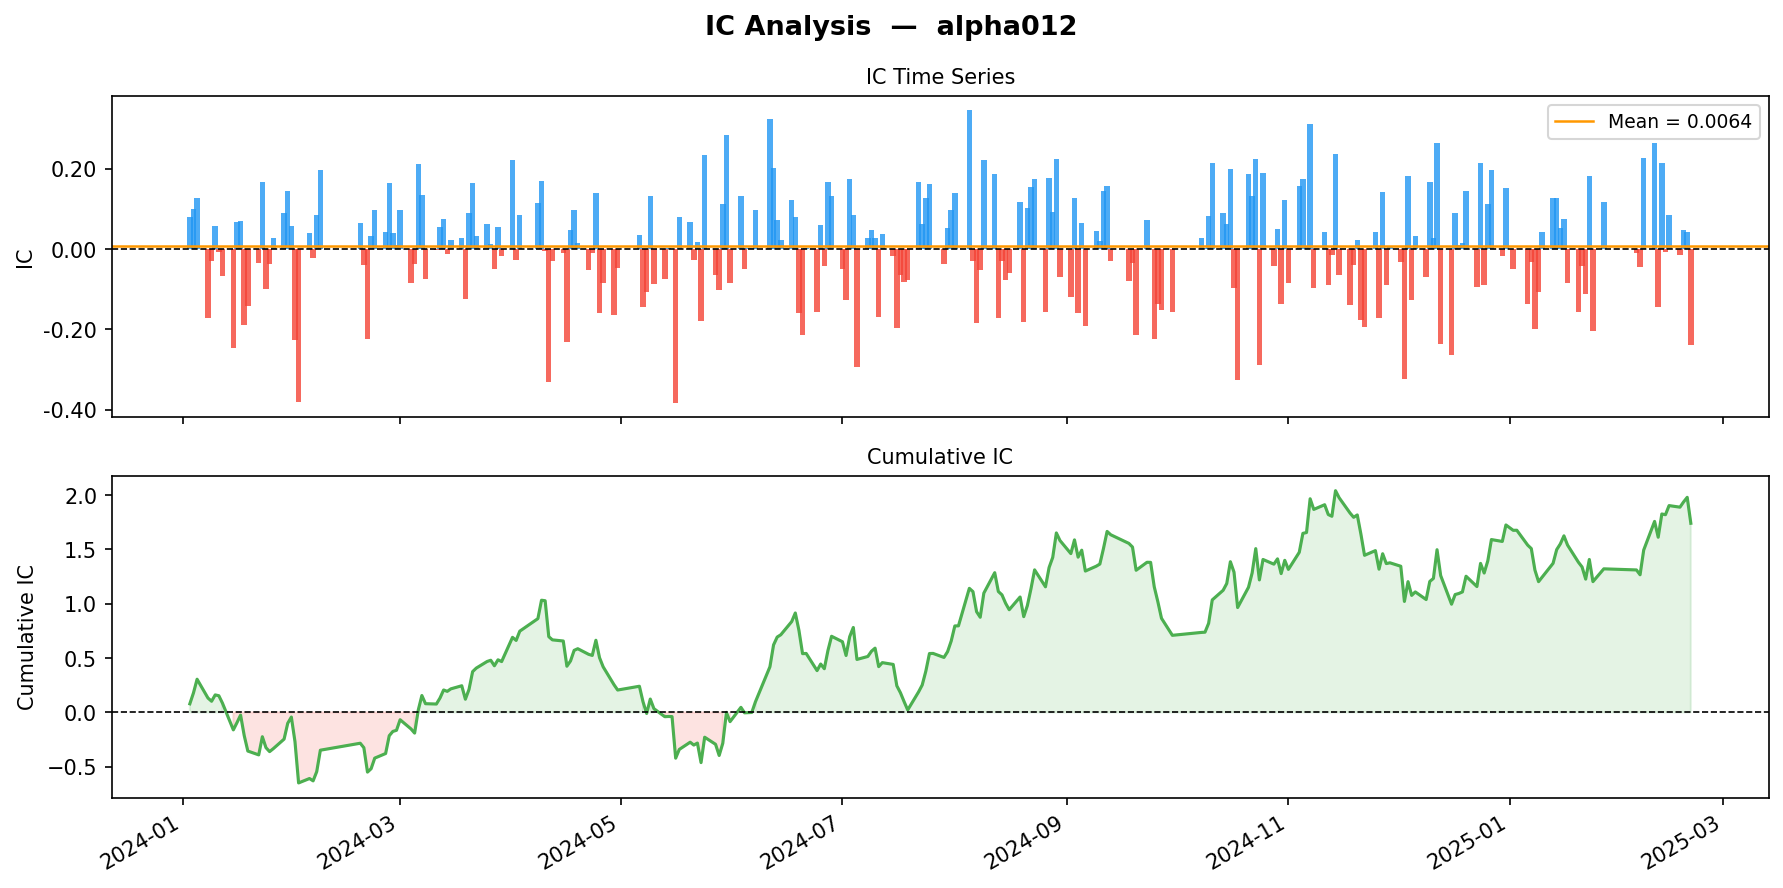
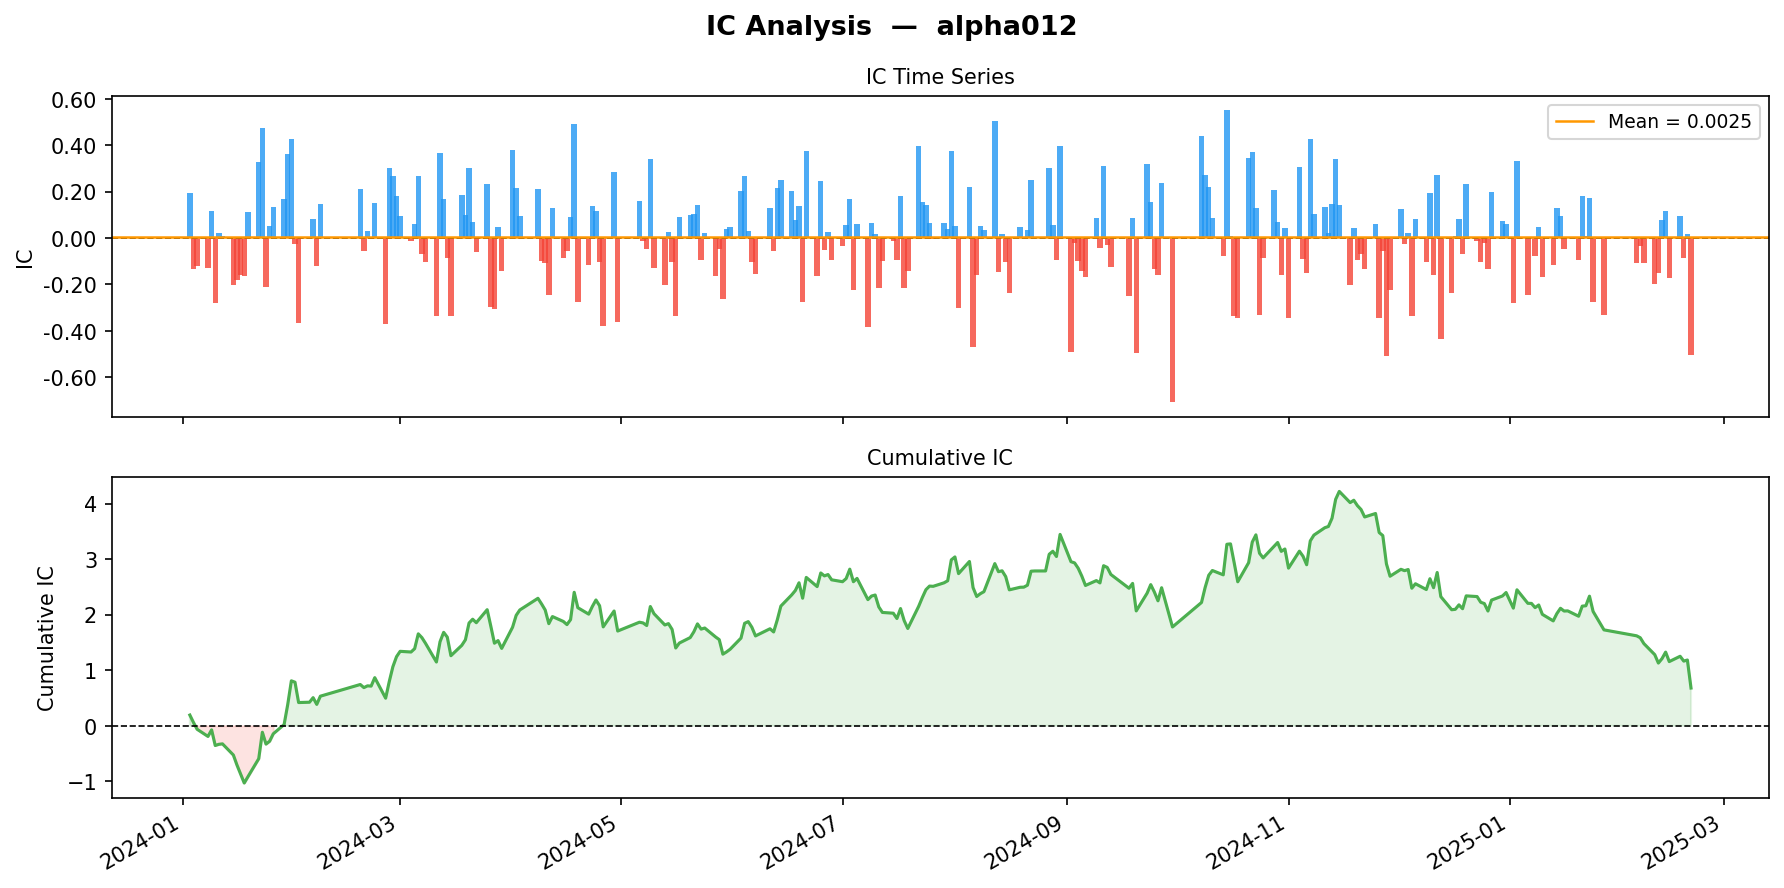
upd: 加入了 5 日反转因子作基础检验，关闭了行业和市值中心化

diff --git a/src/alphas.py b/src/alphas.py
@@ -10,6 +10,7 @@ Implemented alphas (5):
     Alpha#38 : ((-1 * rank(Ts_Rank(close, 10))) * rank((close / open)))
     Alpha#41 : (((high * low)^0.5) - vwap)
     Alpha#101: ((close - open) / ((high - low) + .001))
+    Alpha_5_day_reversal: (close - delay(close,5)) / delay(close,5)
 
 Conventions:
     - All DataFrames are in wide form: index = date (str), columns = stock code (str).
@@ -296,6 +297,14 @@ class Alpha101:
         on days with no price movement.
         """
         return (self.close - self.open) / (self.high - self.low + 0.001)
+
+    def alpha_5_day_reversal(self) -> pd.DataFrame:
+        """
+        Alpha_5_day_reversal: (close - delay(close,5)) / delay(close,5)
+
+        Reversal of the last 5 days' closing prices.
+        """
+        return (self.close - self._delay(self.close, 5)) / self._delay(self.close, 5)   
 
     # ------------------------------------------------------------------
     # Aggregate

diff --git a/src/preprocessor.py b/src/preprocessor.py
@@ -196,7 +196,7 @@ class FactorCleaner:
             df = self.standardize(df)
 
             # Step 4: Neutralize (core step — strip market-cap & industry bias)
-            df = self.neutralize(df)
+            # df = self.neutralize(df)
 
             # Step 5: Final standardize (re-center residuals to N(0,1))
             df = self.standardize(df)

diff --git a/Instruction.md b/Instruction.md
@@ -338,7 +338,7 @@
   | 步骤 | 操作 |
   |------|------|
   | 1 | 载入 `prices.parquet` 与 `factors_clean.parquet` |
-  | 2 | 调用 `calc_forward_return(prices_df, d=5)` 生成 target |
+  | 2 | 调用 `calc_forward_return(prices_df, d=1)` 生成 target |
   | 3 | 遍历每个 alpha 列，依次计算 IC 时间序列、IC metrics，展示图表 |
   | 4 | 筛选满足 `abs(IC mean) > 0.02` 且 `abs(ICIR) > 0.5` 的因子并输出列表 |
 
